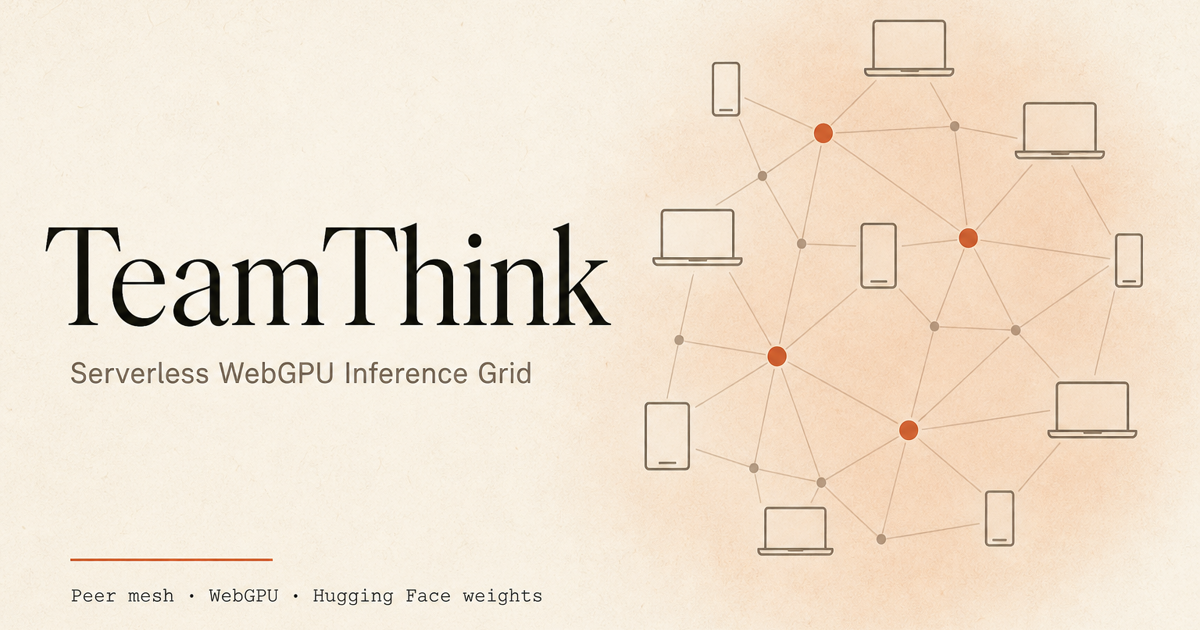
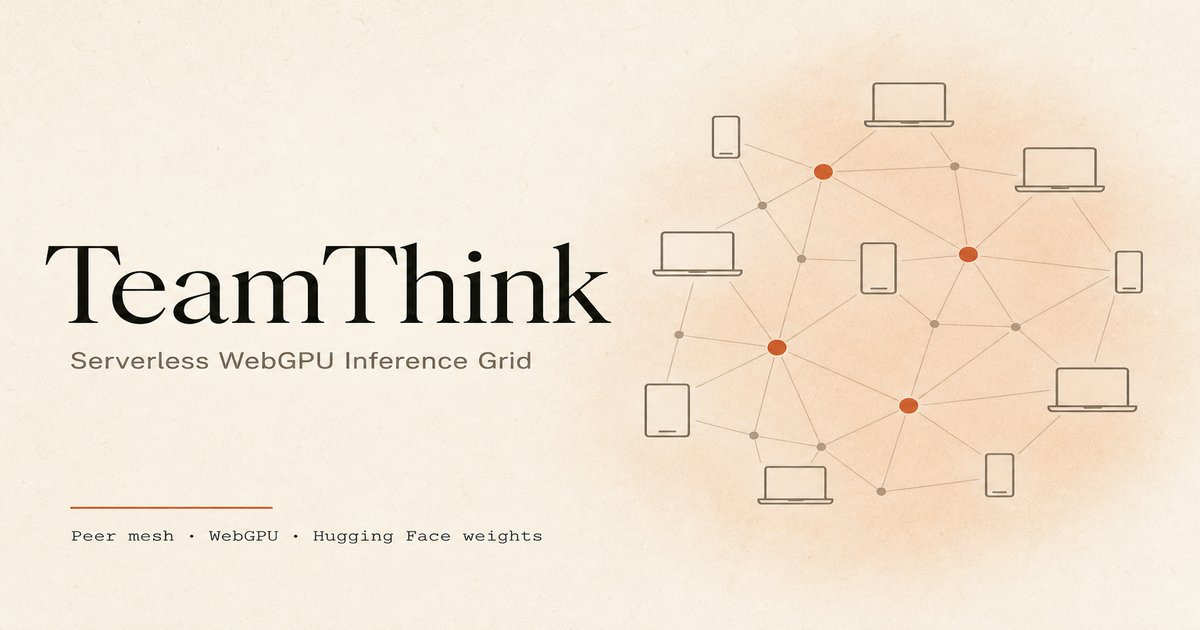
Fix mergeable OG preview under 1MB and agent release rules
Rebuild the conflicting PR changes on top of main: compress og.png under
GitHub’s 1MB limit, add og.jpg for README/site cards, set metadataBase,
and add release-note / social-preview agent rules.

diff --git a/app/layout.tsx b/app/layout.tsx
@@ -3,7 +3,12 @@ import { Analytics } from "@vercel/analytics/next";
 import { bodySans, displaySerif, mono } from "./fonts";
 import "./globals.css";
 
+/** Production origin for absolute Open Graph / Twitter image URLs. */
+const siteUrl =
+  process.env.NEXT_PUBLIC_SITE_URL ?? "https://teamthink.reagent-systems.com";
+
 export const metadata: Metadata = {
+  metadataBase: new URL(siteUrl),
   title: "TeamThink — Shared WebGPU Inference Grid",
   description:
     "Spin up a session, invite devices, and run model inference across a peer-to-peer WebGPU grid.",
@@ -11,7 +16,17 @@ export const metadata: Metadata = {
     title: "TeamThink — Shared WebGPU Inference Grid",
     description:
       "Spin up a session, invite devices, and run model inference across a peer-to-peer WebGPU grid.",
-    images: [{ url: "/og.png", width: 1200, height: 630, alt: "TeamThink" }],
+    url: siteUrl,
+    siteName: "TeamThink",
+    images: [
+      {
+        url: "/og.jpg",
+        width: 1200,
+        height: 630,
+        alt: "TeamThink — Serverless WebGPU Inference Grid",
+        type: "image/jpeg",
+      },
+    ],
     type: "website",
   },
   twitter: {
@@ -19,7 +34,7 @@ export const metadata: Metadata = {
     title: "TeamThink — Shared WebGPU Inference Grid",
     description:
       "Spin up a session, invite devices, and run model inference across a peer-to-peer WebGPU grid.",
-    images: ["/og.png"],
+    images: ["/og.jpg"],
   },
 };
 

diff --git a/RELEASE.md b/RELEASE.md
@@ -40,11 +40,45 @@ git push origin v0.2.0
 `.github/workflows/release-desktop.yml` builds installers and attaches them
 to the release for the tag.
 
+For **major/minor** tags, rewrite “What’s new” as simplified use-case scenarios
+(agent rule: `.cursor/rules/release-notes.mdc`). Keep the GitHub Social preview
+in sync if art changed (`.cursor/rules/og-social-preview.mdc`).
+
 ### What’s new in 0.2.0
 
-1. Multi-turn chat threads (persist, pin, archive, export)
-2. System prompts & presets
-3. Sampler control panel
-4. Structured / JSON output mode
-5. Streaming markdown + code copy + thinking collapse
-6. Electron desktop app with WebGPU flags
+#### 1. Multi-turn threads (persist, pin, archive, export)
+
+You chat in a room, then lose the history when the page reloads. Threads now
+save per room. You can rename them, pin important ones, archive old ones, and
+export to JSON, Markdown, or HTML.
+
+#### 2. System prompts & presets
+
+You reuse the same system prompt and settings across chats. Pick a built-in
+preset, or save your own. The preset sets the system prompt and default sampler
+values for the next run.
+
+#### 3. Sampler panel wired into generation
+
+You need to change temperature, top-p, top-k, max tokens, seed, stop sequences,
+or penalties. The sampler panel sends those values into the grid generation
+path for each prompt.
+
+#### 4. JSON mode + optional schema
+
+You need model output as JSON for another program. Turn on JSON mode and
+optionally add a schema. The model is instructed to return JSON only, and valid
+JSON is pretty-printed when the reply finishes.
+
+#### 5. Streaming markdown, code copy, thinking collapse
+
+You want readable output while tokens stream. Replies render as markdown.
+Code blocks have a copy button. Long `<think>` / reasoning sections collapse so
+the main answer stays easy to read.
+
+#### 6. Electron desktop app with WebGPU flags + CI release
+
+You want to contribute more GPU capacity, but the browser limits WebGPU or
+VRAM. Download the Electron desktop app. It runs Chromium with WebGPU flags
+enabled and ships for Linux, macOS, and Windows through the `v*` release
+pipeline.

diff --git a/README.md b/README.md
@@ -1,8 +1,6 @@
 # TeamThink — Serverless WebGPU Inference Grid
 
-<p align="center">
-  <img src="public/og.png" alt="TeamThink — Serverless WebGPU Inference Grid" width="1200" />
-</p>
+![TeamThink — Serverless WebGPU Inference Grid](./public/og.jpg)
 
 Spin up a session, share an invite link, and run model inference across a
 peer-to-peer mesh of browsers. Each device that joins becomes a WebGPU compute
@@ -150,3 +148,7 @@ via the Ralph loop (`.ralph/`, `pnpm ralph`).
 - Routing distributes whole requests across devices. Pooling VRAM to run a model
   larger than any single device (pipeline/tensor sharding) is experimental and
   latency-bound; it is intentionally deferred behind the engine interface.
+
+- For X/Twitter cards when sharing the **GitHub repo URL**, upload
+  `.github/social-preview.jpg` under **Settings → Social preview** (must be
+  under 1 MB). See `.cursor/rules/og-social-preview.mdc`.
